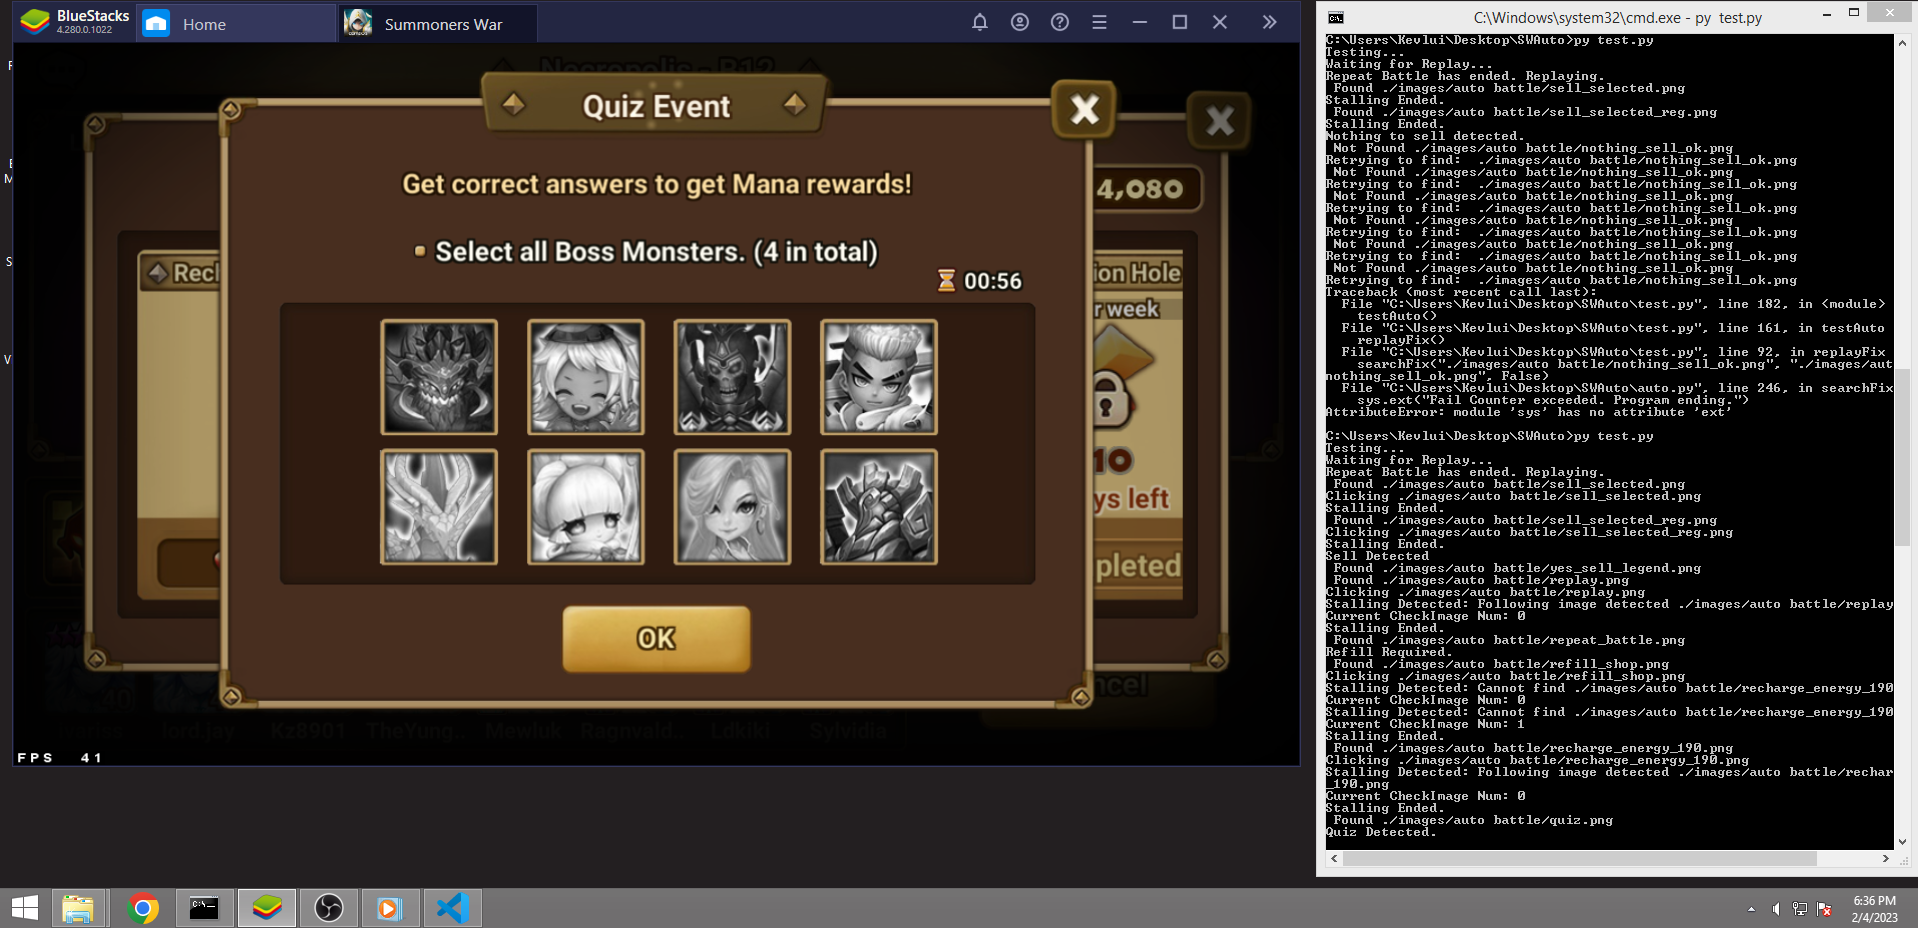
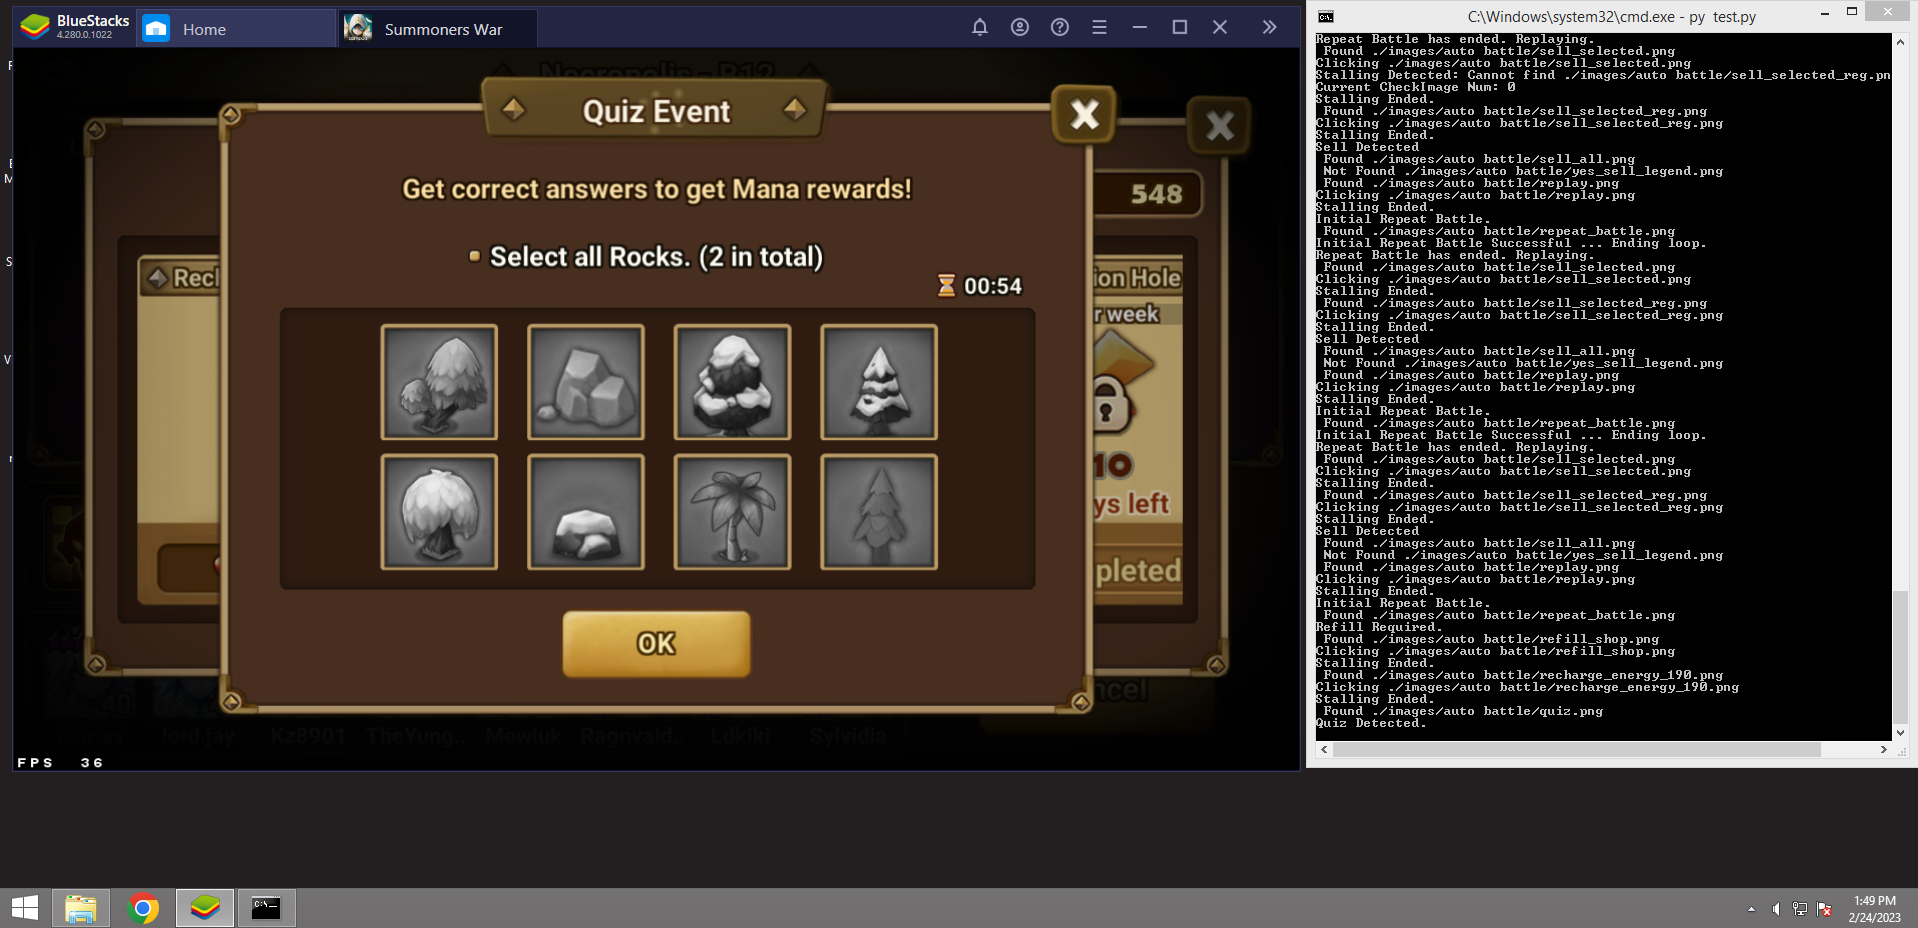
Added some quiz detection for trees / rocks / material variants

diff --git a/test.py b/test.py
@@ -95,15 +95,15 @@ def replayFix():
 		searchFix("./images/auto battle/replay.png", "./images/auto battle/replay.png", False)
 	else:
 		print('Sell Detected')
+		search("./images/auto battle/sell_all.png")
 		legendSell = imagesearch("./images/auto battle/yes_sell_legend.png")
 		if(legendSell[0] != -1):
 			search("./images/auto battle/yes_sell_legend.png")
-		else:
-			search("./images/auto battle/sell_all.png")
 		searchFix("./images/auto battle/replay.png", "./images/auto battle/replay.png", False)
 
-	time.sleep(3)
-	search("./images/auto battle/repeat_battle.png")
+	#time.sleep(3)
+	#searchFix("./images/auto battle/repeat_battle.png", "./images/auto battle/repeat_battle.png", False)
+	#search("./images/auto battle/repeat_battle.png")
 
 def refill():
 	time.sleep(2)
@@ -144,6 +144,25 @@ def refillFix():
 	searchFix("./images/auto battle/yes_shop_ok.png", "./images/auto battle/close_shop.png", True)
 	searchFix("./images/auto battle/close_shop.png", "./images/auto battle/repeat_battle.png", True )
 	searchFix("./images/auto battle/repeat_battle.png", "./images/auto battle/repeat_battle.png", False)
+
+def refillUI():
+	time.sleep(2)
+	searchFix("./images/auto battle/refill_shop.png", "./images/auto battle/recharge_energy_190.png", True)
+	searchFix("./images/auto battle/recharge_energy_190.png", "./images/auto battle/recharge_energy_190.png", False)
+
+	#Check for Quiz
+	quiz_check = search('./images/auto battle/quiz.png')
+	if(quiz_check != -1):
+		logging.info("Quiz Detected.")
+		print("Quiz Detected.")
+		pyautogui.screenshot("quiz.png")
+		quizSolver()
+		searchFix('./images/auto battle/ok-quiz-submit.png', './images/auto battle/ok-quiz-correct.png', True)
+		searchFix('./images/auto battle/ok-quiz-correct.png', './images/auto battle/ok-quiz-correct.png', False)
+		
+	searchFix("./images/auto battle/yes_shop.png", "./images/auto battle/yes_shop_ok.png", True)
+	searchFix("./images/auto battle/yes_shop_ok.png", "./images/auto battle/close_shop.png", True)
+	searchFix("./images/auto battle/close_shop.png", "./images/auto battle/close_shop.png", False )
 	
 def testAuto():
 	print('Testing...')
@@ -156,30 +175,72 @@ def testAuto():
 
 		while(conditional == -1):
 			pos = imagesearch("./images/auto battle/replay.png")
+			currentEnergy = refillFromScreen()
 			time.sleep(5)
 			if(pos[0] != -1):			#Battle has ended.
 				print("Repeat Battle has ended. Replaying.")
 				replayFix()
 
-				#Check if refill is neccessary.
-				time.sleep(5)
-				refill_pos = imagesearch("./images/auto battle/refill_shop.png")
-				if(refill_pos[0] != -1):
-					print('Refill Required.')
-					refillFix()
-				else:
-					print('No Refill Required.')
-					#searchFix("./images/auto battle/repeat_battle.png", "./images/auto battle/repeat_battle.png", False)
+				print('Initial Repeat Battle.')
+				search("./images/auto battle/repeat_battle.png")
+				checkRefill = 0
 
+				while(checkRefill == 0):
+					repeatBattleCheck = imagesearch("./images/auto battle/repeat_battle.png")
+					if repeatBattleCheck[0] != -1:
+						refill_pos = imagesearch("./images/auto battle/refill_shop.png")
+						repeatBattleCheck = imagesearch("./images/auto battle/repeat_battle.png")
+
+						if(refill_pos[0] != -1):
+							checkRefill = 1
+							print('Refill Required.')
+							refillFix()
+						elif(refill_pos[0]) == 0 and (repeatBattleCheck[0] != 0):
+							print('Re-trying to click repeat battle')
+							search("./images/auto battle/repeat_battle.png")
+						elif(repeatBattleCheck[0] == 0):
+							print('No repeat battle or refill found')	
+							checkRefill = 1
+					else:
+						print('Initial Repeat Battle Successful ... Ending loop.')
+						checkRefill = 1
+					time.sleep(2)
+			if(currentEnergy < 12):
+				print('Refill Required:  ' + str(currentEnergy))
+				searchFix('./images/refill/addEnergy.png', "./images/auto battle/refill_shop.png", True)
+				refillUI()
+
+				
 def test():
 	refill_pos = imagesearch("./images/test.png")
 	print('Checking if icon exists:' + str(refill_pos))
+
+
+def refillFromScreen():
+	energyPos = imagesearch('./images/refill/energy.png')
+	addRefillPos = imagesearch('./images/refill/addEnergy.png')
+
+
+	pyautogui.screenshot('test-refill.png',region=(energyPos[0] + 50, energyPos[1], addRefillPos[0]-energyPos[0] - 40, 50 ))
+	energyMeter = findText('test-refill.png')
+
+	filteredString = ""
+
+	for char in energyMeter:
+		if(char.isdigit() or char == '/'):
+			filteredString = filteredString + char
+			
+	currentEnergy = int(filteredString.split('/')[0])
+	#print('Filtered String: ' + str(currentEnergy))
+	return currentEnergy
+
 	
 	
 
 try:
 	#autoToa()
 	#test()
+	#refillFromScreen()
 	testAuto()
 	#refill_pos = imagesearch("./images/auto battle/refill_shop.png")
 	#print(str(refill_pos))

diff --git a/auto.py b/auto.py
@@ -17,17 +17,21 @@ import pytesseract
 pytesseract.pytesseract.tesseract_cmd = r'.\hello tess\tesseract.exe'
 
 #
-def findText():
-    pyautogui.screenshot("./text_read.png")
-    img = cv2.imread("./text_read.png")
+def findText(imgPath):
+    #pyautogui.screenshot("./text_read.png")
+    img = cv2.imread(imgPath)
 
-    data = pytesseract.image_to_data(img, output_type='dict')
-    boxes = len(data['level'])
-    for i in range(boxes ):
-        (x, y, w, h) = (data['left'][i], data['top'][i], data['width'][i], data['height'][i])
-        print(str(x) + str(y) + str(w) + str(h))
-        #Draw box        
-        cv2.rectangle(img, (x, y), (x + w, y + h), (0, 255, 0), 2)
+    #data = pytesseract.image_to_data(img, output_type='dict')
+    data = pytesseract.image_to_string(imgPath)
+    #print(data)
+    return data
+    
+    # boxes = len(data['level'])
+    # for i in range(boxes ):
+    #     (x, y, w, h) = (data['left'][i], data['top'][i], data['width'][i], data['height'][i])
+    #     #print(str(x) + str(y) + str(w) + str(h))
+    #     #Draw box        
+    #     cv2.rectangle(img, (x, y), (x + w, y + h), (0, 255, 0), 2)
 
 
 #----- DRAWING RELATED METHODS-----
@@ -216,12 +220,17 @@ def searchFix(image_directory, next_image_directory, check_image, modifiedDelay=
                         print("Stalling Detected: Cannot find " + next_image_directory)
                         print('Current CheckImage Num: ' + str(checkImageNum))
                         checkImageNum = checkImageNum + 1
+                        pyautogui.moveTo(385,783, 2, pyautogui.easeInQuad)
+                        pyautogui.click()
                         time.sleep(2)
+
                     #If image is intended to be not found BUT found:
                     elif (check_image == False) and (checkLag[0] != -1):
                         print("Stalling Detected: Following image detected " + next_image_directory )
                         print('Current CheckImage Num: ' + str(checkImageNum))
                         checkImageNum = checkImageNum + 1
+                        pyautogui.moveTo(385,783, 2, pyautogui.easeInQuad)
+                        pyautogui.click()
                         time.sleep(2)
                     else:
                         print("Stalling Ended.")
@@ -365,7 +374,8 @@ def autoBattle(refill_counter,max_counter):
                     if(quiz_check != -1):
                         logging.info("Quiz Detected.")
                         print("Quiz Detected.")
-                        pyautogui.screenshot("quiz.png")
+                        date = datetime.today()
+                        pyautogui.screenshot("quiz_" + str(date) + ".png")
                         quizSolver()
                         searchFix('./images/auto battle/ok-quiz-submit.png', './images/auto battle/ok-quiz-correct.png', True)
                         searchFix('./images/auto battle/ok-quiz-correct.png', './images/auto battle/ok-quiz-correct.png', False)
@@ -466,6 +476,10 @@ def quizSolver():
         files = absoluteFilePaths('./Captcha Images/Boss')
     elif(target_info[1] == "Ellia"):
         files = absoluteFilePaths('./Captcha Images/Ellia')
+    elif(target_info[1] == "Rocks"):
+        files = absoluteFilePaths('./Captcha Images/Rocks')
+    elif(target_info[1] == "Trees"):
+        files = absoluteFilePaths('./Captcha Images/Trees')
     else:
         files_boss = absoluteFilePaths('./Captcha Images/Boss')
         files_ellia = absoluteFilePaths('./Captcha Images/Ellia')
